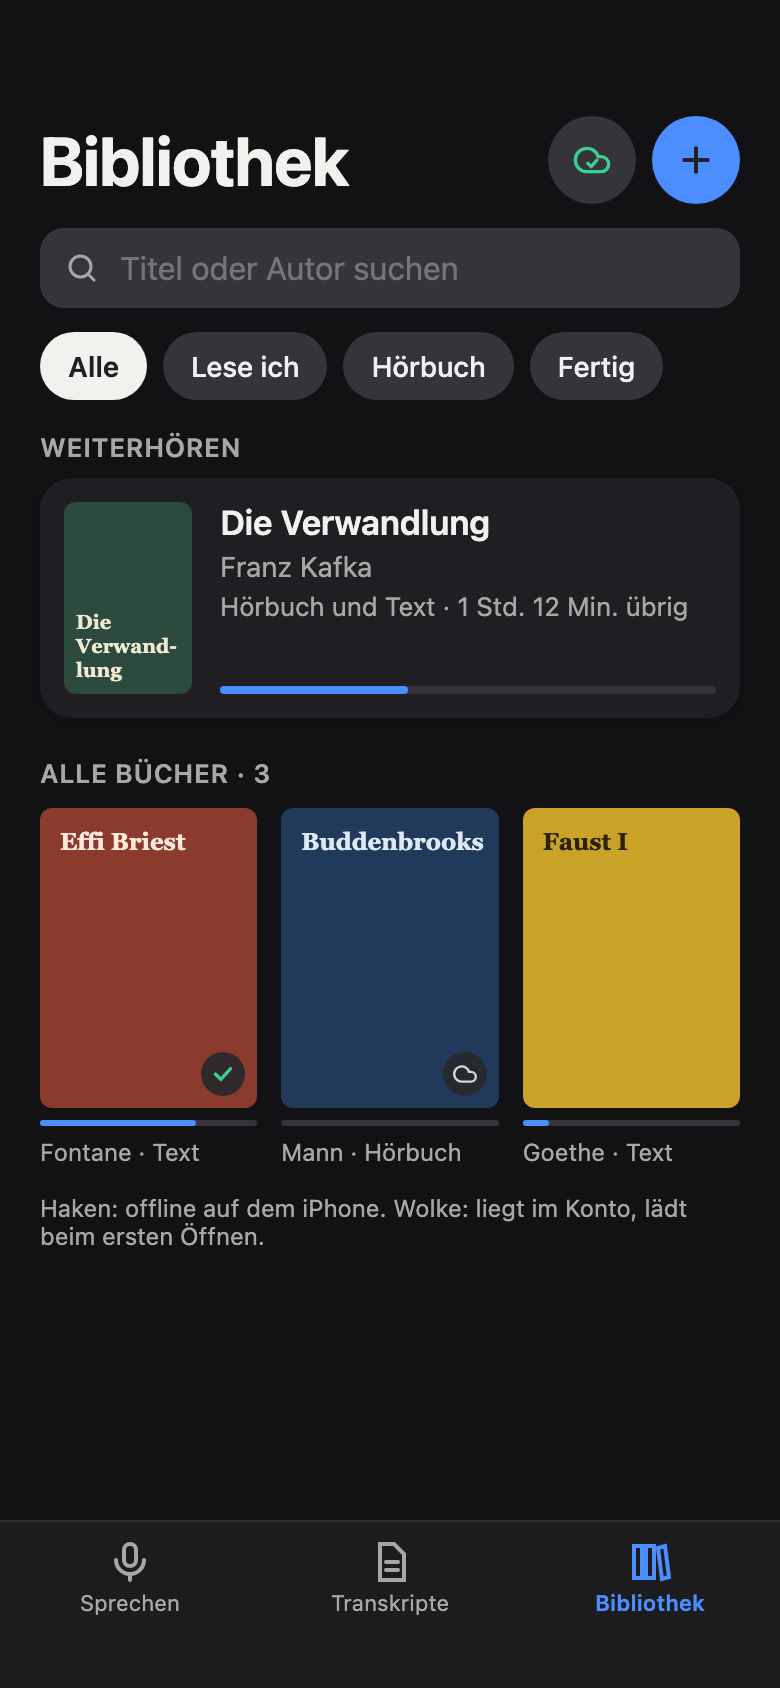
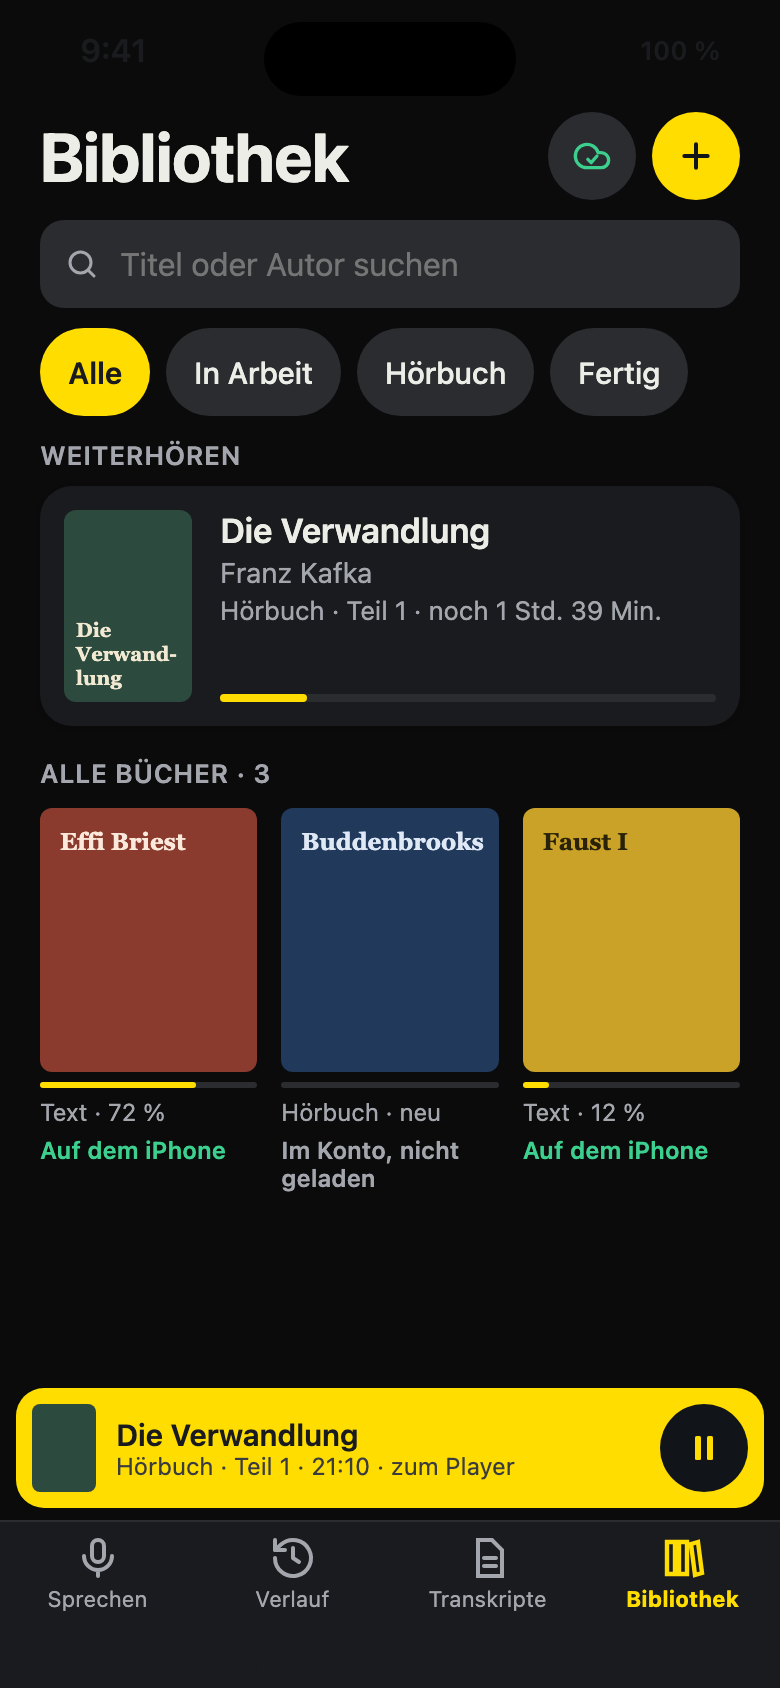
docs(ios): Vorschau Bibliothek nach Codex-Auflagen (#210)
Mini-Player auf Regal und Buchseite, Tab-Leiste bleibt; Fassungen
eindeutig benannt und Fortschritt je Fassung mit letztem Gerät; Zeiten
stimmig; Bedienhinweise und beschriftete Knöpfe; Varianten für große
Schrift und 44-pt-Touchflächen; Systemleisten; Ladezustände; App-Palette.

diff --git a/apps/local-voice/docs/vorschau/ios-bibliothek/README.md b/apps/local-voice/docs/vorschau/ios-bibliothek/README.md
@@ -1,15 +1,20 @@
 # Vorschau: Bibliothek auf dem iPhone (Epic #210)
 
-UI-Vorschau zur Abnahme, noch kein App-Code. iPhone-Breite 390 pt, gerendert mit Faktor 2, je hell und dunkel.
-Konzept: Bibliothek mit Vorlesen, Hören und Mitlesen in der nativen iPhone-App, synchronisiert mit dem Desktop
-(Einträge, Fortschritt, Hörbuchdateien per verschlüsselter Hub-Dateiablage, Download bei Bedarf).
+UI-Vorschau zur Abnahme, noch kein App-Code. iPhone 390 × 844 pt, gerendert mit Faktor 2,
+mit Statusleiste, Dynamic Island und Home-Indikator. Farben aus der App-Palette (`VoicePalette`):
+hell Ink-Akzent, dunkel Signalgelb-Akzent.
+
+Varianten je Bild: `hell`, `dunkel`, `gross` (Dynamic Type etwa 135 %, ohne Umbau des Layouts),
+`touch` (alle Bedienelemente rot gestrichelt umrandet, jedes mindestens 44 × 44 pt).
 
 | Bild | Inhalt |
 | --- | --- |
-| `01-regal-*` | Neuer Tab „Bibliothek“ neben Sprechen und Transkripte: Suche, Filter, Karte „Weiterhören“, Cover-Raster mit Fortschritt; Haken = offline auf dem iPhone, Wolke = liegt im Konto, lädt beim ersten Öffnen |
-| `02-buchseite-*` | Ein Eintrag mit Text und Hörbuch: Knöpfe Vorlesen und Hören, Fortschritt je Fassung mit Gerät der letzten Nutzung, Kurzbuch vom Desktop, Teile eines mehrteiligen Hörbuchs |
-| `03-hoeren-mitlesen-*` | Hörbuch läuft, Text daneben, aktueller Absatz hervorgehoben und mitgescrollt (Zeitachse vom Desktop); Tipp auf Absatz springt; Player mit Tempo, ±15 s, Schlaftimer |
-| `04-vorlesen-*` | Vorlesen mit iOS-Systemstimme: Absatz und gerade gesprochenes Wort hervorgehoben, Lesezeichen, Stimmenwahl |
-| `05-download-sync-*` | Am PC hinzugefügtes Hörbuch wird beim ersten Öffnen geladen: Fortschritt, „Schon hören“ ab Teil 1, „Nur im WLAN laden“, Speicher, letzter Sync |
+| `01-regal-*` | Tab „Bibliothek“ neben Sprechen, Verlauf, Transkripte. Suche, Filter Alle / In Arbeit / Hörbuch / Fertig, Karte „Weiterhören“. Raster mit Fassung und Fortschritt je Eintrag („Text · 72 %“) und Ladestand in Worten („Auf dem iPhone“ bzw. „Im Konto, nicht geladen“). Mini-Player über der Tab-Leiste |
+| `02-buchseite-*` | Tab-Leiste bleibt, Mini-Player darüber. Knöpfe „Text vorlesen“ und „Hörbuch hören“. Fortschritt getrennt nach Hörbuch und Text, je mit Gerät und Zeit des letzten Stands. Kurzbuch, Hörbuch-Teile mit Kapitelzuordnung |
+| `03-hoeren-mitlesen-*` | Vollbild-Player (ersetzt die Tab-Leiste). Teil 1 von 3, Kapitel I. Aktueller Absatz markiert, Hinweis „Absatz antippen, um im Hörbuch dorthin zu springen“. Beschriftete Knöpfe Tempo, „15 s zurück“, Pause, „15 s vor“, Schlaftimer |
+| `04-vorlesen-*` | Vorlesen des Texts mit iOS-Systemstimme: Absatz und gesprochenes Wort markiert, Hinweis zum Antippen, beschriftete Knöpfe Tempo, „Satz zurück“, „Satz vor“, „Stimme“ |
+| `05-download-sync-*` | Am PC hinzugefügtes Hörbuch lädt beim ersten Öffnen: Stand je Teil, „Pausieren“, „Teil 1 hören“, „Nur im WLAN laden“, Speicher, Kontostatus |
+| `06-ladezustaende-*` | Wartet auf WLAN, pausiert, fehlgeschlagen (mit „Erneut versuchen“), auf dem iPhone (mit „Vom iPhone entfernen“) |
 
+Zeiten stimmen überein: Teile 38:40 + 41:05 + 40:15 = 2:00:00; Stand Teil 1 bei 21:10, also noch 1:38:50.
 Beispieltexte: Kafka, „Die Verwandlung“ (gemeinfrei).
